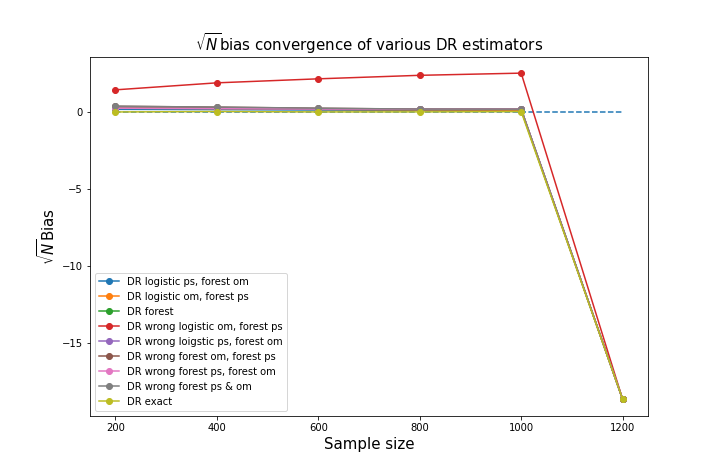
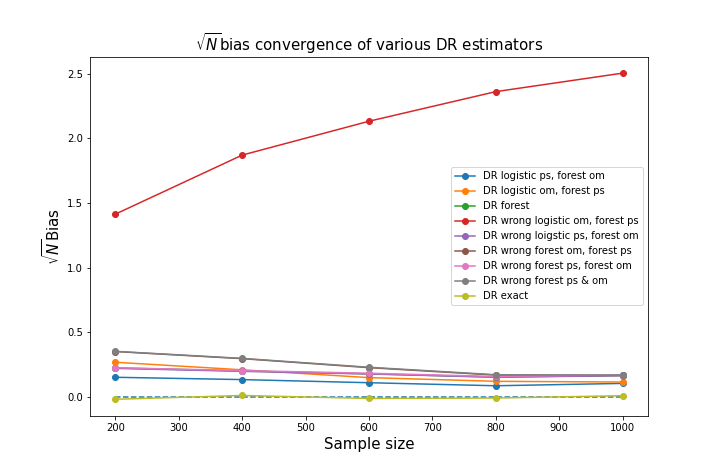
Fixing forest figures

diff --git a/Code/randomforest_DR.py b/Code/randomforest_DR.py
@@ -23,7 +23,7 @@ Y =np.random.binomial(1, expit(0.2*A-W1 + 2*np.multiply(W1,W2)), 1000000)
 B_true = np.mean(expit(0.2-W1+ 2*np.multiply(W1,W2)))
 
 iters = 2500
-N = [200*i for i in range(1,7)]
+N = [200*i for i in range(1,6)]
 
 estimates = np.zeros((9,iters,len(N)))
 CI = 1.0*estimates
